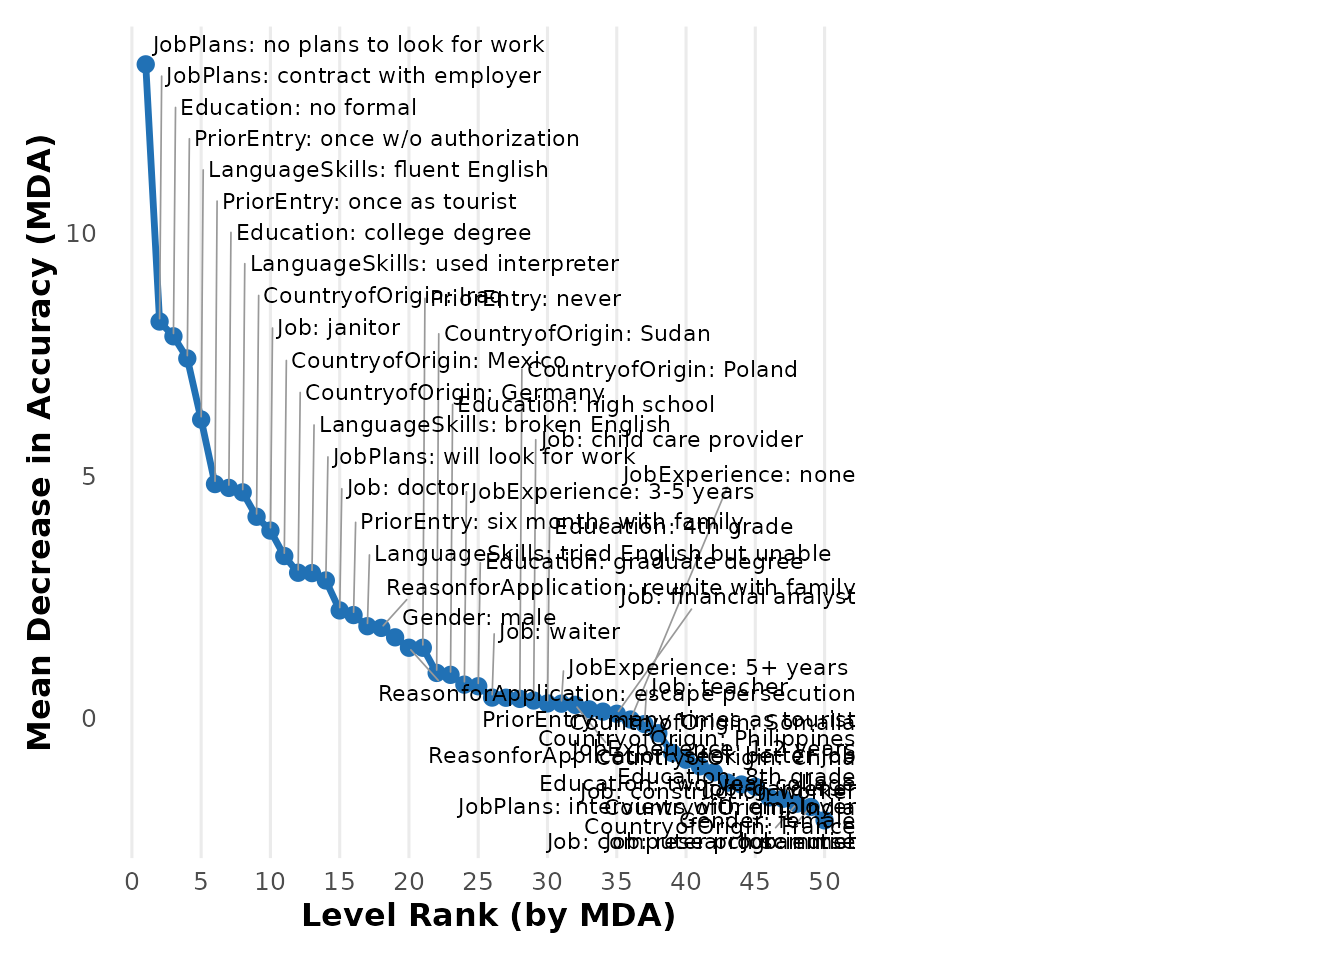
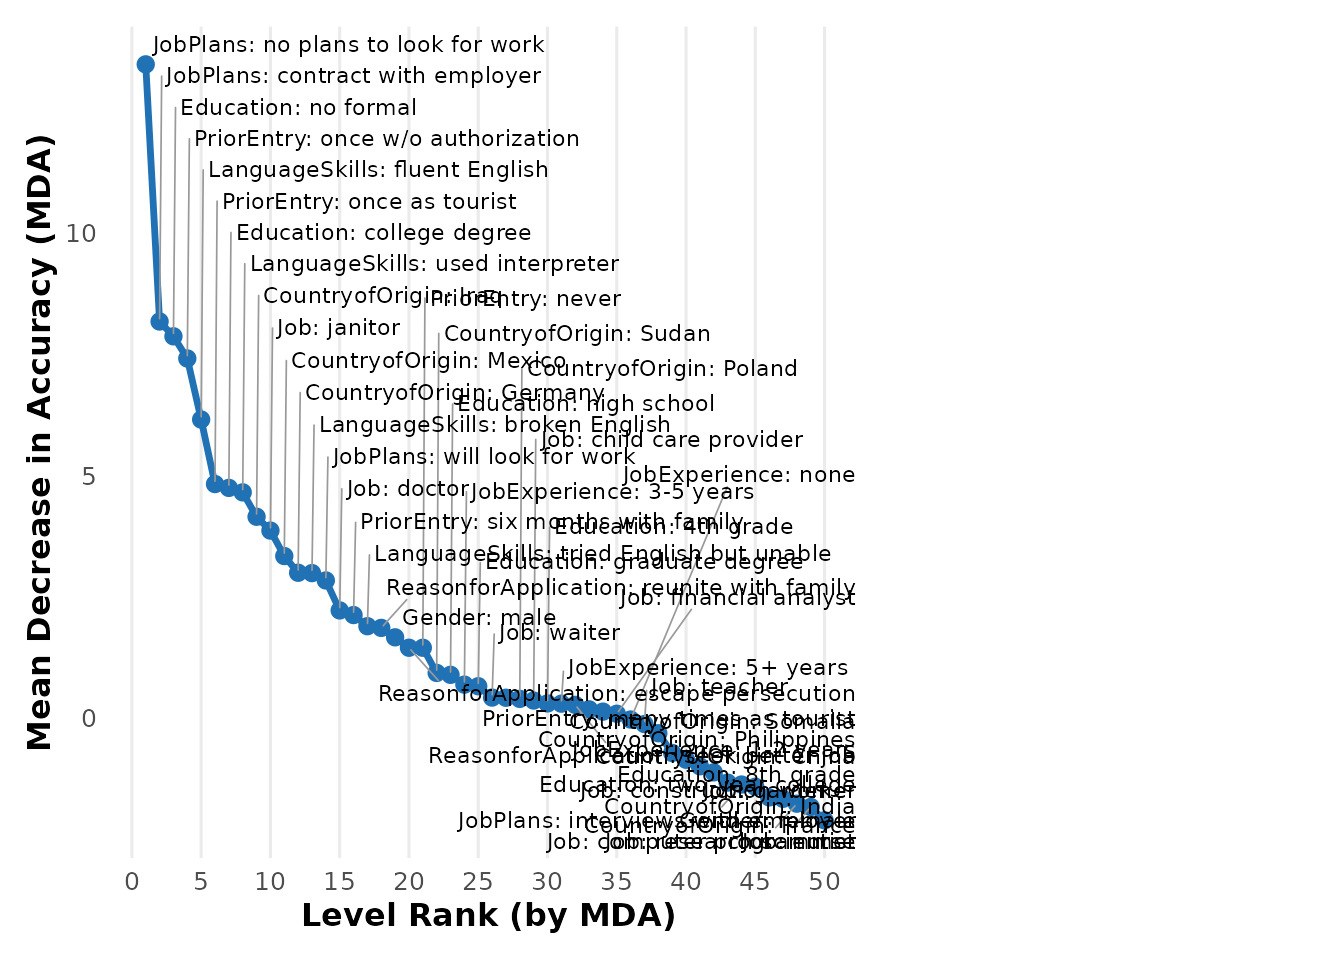
Deploying to gh-pages from @ dkarpa/cjdiag@9bc7acbc1ad78c46d2eb8191908b25b63213c495 🚀

diff --git a/CODE_OF_CONDUCT.html b/CODE_OF_CONDUCT.html
@@ -29,7 +29,7 @@
 <div class="row">
   <main id="main" class="col-md-9"><div class="page-header">
       <img src="logo.png" class="logo" alt=""><h1>Contributor Covenant Code of Conduct</h1>
-      <small class="dont-index">Source: <a href="https://github.com/dkarpa/cjdiag/blob/main/CODE_OF_CONDUCT.md" class="external-link"><code>CODE_OF_CONDUCT.md</code></a></small>
+      <small class="dont-index">Source: <a href="https://github.com/dkarpa/cjdiag/blob/v0.2.0-beta/CODE_OF_CONDUCT.md" class="external-link"><code>CODE_OF_CONDUCT.md</code></a></small>
     </div>
 
 <div id="contributor-covenant-code-of-conduct" class="section level1">

diff --git a/CONTRIBUTING.html b/CONTRIBUTING.html
@@ -29,7 +29,7 @@
 <div class="row">
   <main id="main" class="col-md-9"><div class="page-header">
       <img src="logo.png" class="logo" alt=""><h1>Contributing to cjdiag</h1>
-      <small class="dont-index">Source: <a href="https://github.com/dkarpa/cjdiag/blob/main/CONTRIBUTING.md" class="external-link"><code>CONTRIBUTING.md</code></a></small>
+      <small class="dont-index">Source: <a href="https://github.com/dkarpa/cjdiag/blob/v0.2.0-beta/CONTRIBUTING.md" class="external-link"><code>CONTRIBUTING.md</code></a></small>
     </div>
 
 <div id="contributing-to-cjdiag" class="section level1">

diff --git a/LICENSE.html b/LICENSE.html
@@ -29,7 +29,7 @@
 <div class="row">
   <main id="main" class="col-md-9"><div class="page-header">
       <img src="logo.png" class="logo" alt=""><h1>MIT License</h1>
-      <small class="dont-index">Source: <a href="https://github.com/dkarpa/cjdiag/blob/main/LICENSE.md" class="external-link"><code>LICENSE.md</code></a></small>
+      <small class="dont-index">Source: <a href="https://github.com/dkarpa/cjdiag/blob/v0.2.0-beta/LICENSE.md" class="external-link"><code>LICENSE.md</code></a></small>
     </div>
 
 <div id="mit-license" class="section level1">

diff --git a/articles/introduction.html b/articles/introduction.html
@@ -53,7 +53,7 @@
       <img src="../logo.png" class="logo" alt=""><h1>Introduction to cjdiag</h1>
             
       
-      <small class="dont-index">Source: <a href="https://github.com/dkarpa/cjdiag/blob/main/vignettes/introduction.Rmd" class="external-link"><code>vignettes/introduction.Rmd</code></a></small>
+      <small class="dont-index">Source: <a href="https://github.com/dkarpa/cjdiag/blob/v0.2.0-beta/vignettes/introduction.Rmd" class="external-link"><code>vignettes/introduction.Rmd</code></a></small>
       <div class="d-none name"><code>introduction.Rmd</code></div>
     </div>
 

diff --git a/authors.html b/authors.html
@@ -42,7 +42,7 @@
 
     <div class="section level2">
       <h2 id="citation">Citation</h2>
-      <p><small class="dont-index">Source: <a href="https://github.com/dkarpa/cjdiag/blob/main/inst/CITATION" class="external-link"><code>inst/CITATION</code></a></small></p>
+      <p><small class="dont-index">Source: <a href="https://github.com/dkarpa/cjdiag/blob/v0.2.0-beta/inst/CITATION" class="external-link"><code>inst/CITATION</code></a></small></p>
 
       <p>Karpa D (2026).
 <em>cjdiag: Diagnostic Tools for Conjoint Survey Experiments</em>.

diff --git a/news/index.html b/news/index.html
@@ -29,7 +29,7 @@
 <div class="row">
   <main id="main" class="col-md-9"><div class="page-header">
       <img src="../logo.png" class="logo" alt=""><h1>Changelog</h1>
-      <small>Source: <a href="https://github.com/dkarpa/cjdiag/blob/main/NEWS.md" class="external-link"><code>NEWS.md</code></a></small>
+      <small>Source: <a href="https://github.com/dkarpa/cjdiag/blob/v0.2.0-beta/NEWS.md" class="external-link"><code>NEWS.md</code></a></small>
     </div>
 
     <div class="section level2">

diff --git a/reference/augment_profile_order.html b/reference/augment_profile_order.html
@@ -35,7 +35,7 @@ method = "crt".'><meta property="og:image" content="https://dkarpa.github.io/cjd
 <div class="row">
   <main id="main" class="col-md-9"><div class="page-header">
       <img src="../logo.png" class="logo" alt=""><h1>Augment Data with Swapped Profile Order</h1>
-      <small class="dont-index">Source: <a href="https://github.com/dkarpa/cjdiag/blob/main/R/augment_profile_order.R" class="external-link"><code>R/augment_profile_order.R</code></a></small>
+      <small class="dont-index">Source: <a href="https://github.com/dkarpa/cjdiag/blob/v0.2.0-beta/R/augment_profile_order.R" class="external-link"><code>R/augment_profile_order.R</code></a></small>
       <div class="d-none name"><code>augment_profile_order.Rd</code></div>
     </div>
 

diff --git a/reference/cj_fit.html b/reference/cj_fit.html
@@ -37,7 +37,7 @@ factor columns are passed directly to the model.'><meta property="og:image" cont
 <div class="row">
   <main id="main" class="col-md-9"><div class="page-header">
       <img src="../logo.png" class="logo" alt=""><h1>Fit Conjoint Diagnostic Model</h1>
-      <small class="dont-index">Source: <a href="https://github.com/dkarpa/cjdiag/blob/main/R/cj_fit.R" class="external-link"><code>R/cj_fit.R</code></a></small>
+      <small class="dont-index">Source: <a href="https://github.com/dkarpa/cjdiag/blob/v0.2.0-beta/R/cj_fit.R" class="external-link"><code>R/cj_fit.R</code></a></small>
       <div class="d-none name"><code>cj_fit.Rd</code></div>
     </div>
 

diff --git a/reference/cjdiag-package.html b/reference/cjdiag-package.html
@@ -33,7 +33,7 @@ which ones respondents ignore."><meta property="og:image" content="https://dkarp
 <div class="row">
   <main id="main" class="col-md-9"><div class="page-header">
       <img src="../logo.png" class="logo" alt=""><h1>cjdiag: Diagnostic Tools for Conjoint Survey Experiments</h1>
-      <small class="dont-index">Source: <a href="https://github.com/dkarpa/cjdiag/blob/main/R/cjdiag-package.R" class="external-link"><code>R/cjdiag-package.R</code></a></small>
+      <small class="dont-index">Source: <a href="https://github.com/dkarpa/cjdiag/blob/v0.2.0-beta/R/cjdiag-package.R" class="external-link"><code>R/cjdiag-package.R</code></a></small>
       <div class="d-none name"><code>cjdiag-package.Rd</code></div>
     </div>
 

diff --git a/reference/cjdiag_palette.html b/reference/cjdiag_palette.html
@@ -29,7 +29,7 @@
 <div class="row">
   <main id="main" class="col-md-9"><div class="page-header">
       <img src="../logo.png" class="logo" alt=""><h1>Color Palettes for cjdiag Plots</h1>
-      <small class="dont-index">Source: <a href="https://github.com/dkarpa/cjdiag/blob/main/R/theme.R" class="external-link"><code>R/theme.R</code></a></small>
+      <small class="dont-index">Source: <a href="https://github.com/dkarpa/cjdiag/blob/v0.2.0-beta/R/theme.R" class="external-link"><code>R/theme.R</code></a></small>
       <div class="d-none name"><code>cjdiag_palette.Rd</code></div>
     </div>
 

diff --git a/reference/dot-apply_labels.html b/reference/dot-apply_labels.html
@@ -31,7 +31,7 @@ label dictionaries from explicit arguments or global options."><meta property="o
 <div class="row">
   <main id="main" class="col-md-9"><div class="page-header">
       <img src="../logo.png" class="logo" alt=""><h1>Apply Label Remapping to Plot Data (internal)</h1>
-      <small class="dont-index">Source: <a href="https://github.com/dkarpa/cjdiag/blob/main/R/theme.R" class="external-link"><code>R/theme.R</code></a></small>
+      <small class="dont-index">Source: <a href="https://github.com/dkarpa/cjdiag/blob/v0.2.0-beta/R/theme.R" class="external-link"><code>R/theme.R</code></a></small>
       <div class="d-none name"><code>dot-apply_labels.Rd</code></div>
     </div>
 

diff --git a/reference/dot-resolve_plot_options.html b/reference/dot-resolve_plot_options.html
@@ -29,7 +29,7 @@
 <div class="row">
   <main id="main" class="col-md-9"><div class="page-header">
       <img src="../logo.png" class="logo" alt=""><h1>Resolve Plot Options (internal)</h1>
-      <small class="dont-index">Source: <a href="https://github.com/dkarpa/cjdiag/blob/main/R/theme.R" class="external-link"><code>R/theme.R</code></a></small>
+      <small class="dont-index">Source: <a href="https://github.com/dkarpa/cjdiag/blob/v0.2.0-beta/R/theme.R" class="external-link"><code>R/theme.R</code></a></small>
       <div class="d-none name"><code>dot-resolve_plot_options.Rd</code></div>
     </div>
 